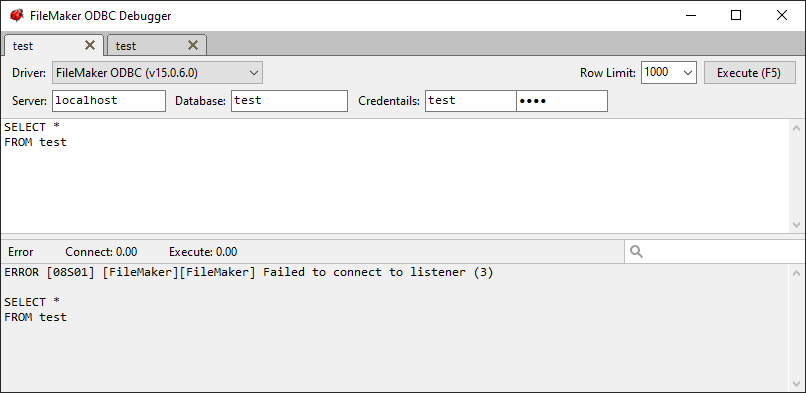
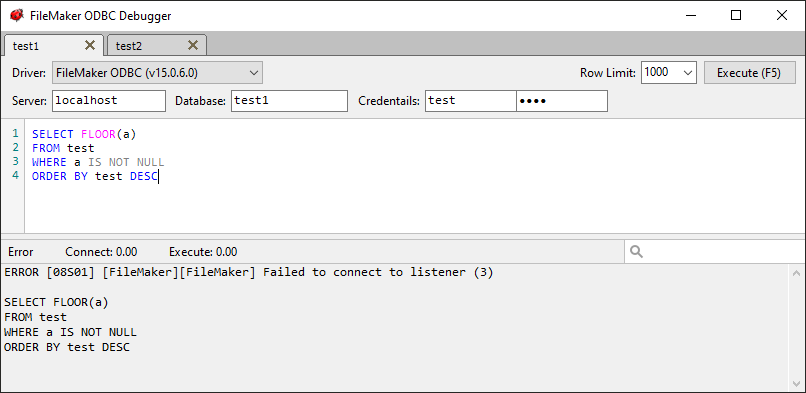
Update version, readme, and todo

diff --git a/README.md b/README.md
@@ -26,6 +26,7 @@ This program is provided "as is" and comes without a warranty of any kind. Use a
 
 - Show how long the query took to execute (separate durations for connect, process, and stream).
 - Support for T-SQL style comments (single `--` and multi-line `/*`).
+- Text editor supports syntax highlighting for all of the documented keywords. Colours are the same as Microsoft SQL Server Management Studio.
 - Execute multiple queries as a transaction (separate queries using a semi-colon `;`).
 - Convert line breaks to carriage returns (FileMaker natively uses `CR` for line breaks).
 - Field names starting with an underscore will be automatically escaped with double quotes.
@@ -46,3 +47,4 @@ This program is provided "as is" and comes without a warranty of any kind. Use a
 - Tab control code adapted from [MDI tab control](https://www.codeproject.com/Articles/16436/A-highly-configurable-MDI-tab-control-from-scratch) by Eduardo Oliveira, The Code Project Open License (CPOL). 
 - [CsvHelper](joshclose.github.io/CsvHelper), Apache License, Version 2.0.
 - [Json.NET](https://www.newtonsoft.com/json), MIT license.
+- [FastColoredTextBox](https://github.com/PavelTorgashov/FastColoredTextBox), GNU Lesser General Public License (LGPLv3).

diff --git a/TODO.md b/TODO.md
@@ -5,17 +5,12 @@
 - Clean/replace any dodgy (non-UTF-8?) characters in query, such as `‘`. Example: `SELECT _jobid FROM contracts WHERE ( status = ‘onhire’ or status = ‘ready for pickup’) and product = ‘void'`
 - Show a list of the ODBC drivers installed on the system.
 - Get a list of the available tables.
-- Better text editor:
-    - support multiple undos (ctrl-z).
-    - sql syntax highlighting.
-    - capitalise SQL reserved words.
 
 ## Low
 
 - Replace tab control with a better one:
   - smooth animations when rearranging tabs (convert project to wpf and implement [draggable tabs](https://dragablz.net)).
   - tabs disappear (and the order will rearrange) if one extends beyond the edge of the window.
-
 - Ignore `[` and `]` characters in a query so we can use T-SQL field naming syntax.
   - refer: https://docs.microsoft.com/en-us/sql/relational-databases/databases/database-identifiers?view=sql-server-2017
   - refer: https://dba.stackexchange.com/a/7513/37320
